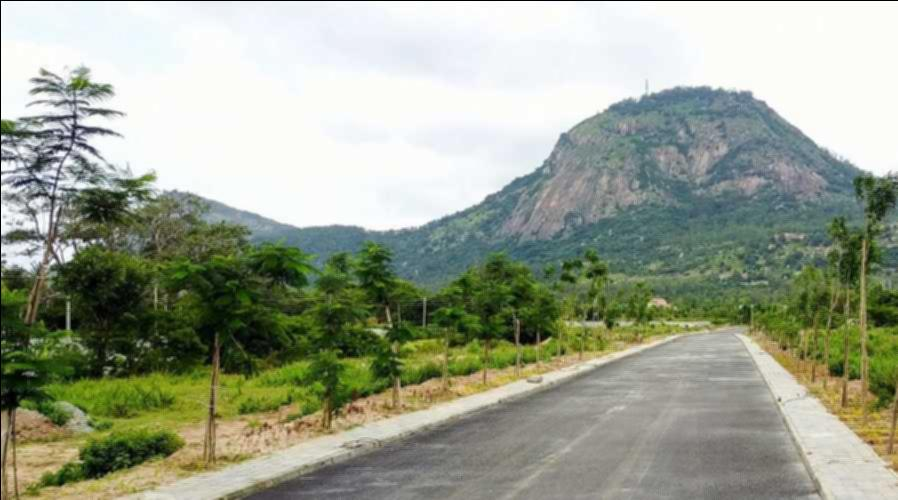
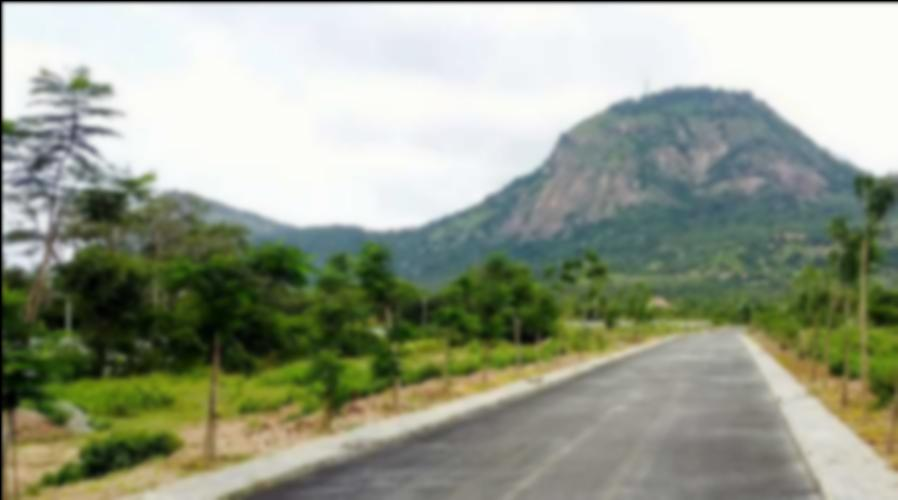
Blurring task successfull

diff --git a/Image_Processing/Task_1/Blur/blur.py b/Image_Processing/Task_1/Blur/blur.py
@@ -1,28 +1,43 @@
 # importing necessary libraries
 import numpy as np
 from PIL import Image
-import matplotlib.pyplot as plt
-intensity =5
 
-'''The approach used here is that for every pixel, change the pixel value of all three channels by their average '''
+#defines the intensity of blur required to be achieved
+level =10
+
+'''The approach used here is that for every pixel, change the pixel value of each channel to the average of pixel values of all its neigbourhood points '''
+
 # PIL is used to open the image and then it is converted into a numpy array
-image = np.array(Image.open('hills.jpg').convert('RGB'))
-blurred_image=np.empty(image.shape)
+image = np.array(Image.open('hills.jpg'))
 
-# The first element of image.shape is the no. of rows and the 2nd element is the no. of columns in the array
-for r in range(0, image.shape[0]):
-    for c in range(0, image.shape[1]):
-        #stores all the points in the neighbourhood of (r,c)
-        nbd=image[r-1:r+2,c-1:c+2]
-        
-        #acg_p stores the average pixel value in (r,g,b) format
-        avg_p=np.mean(nbd,axis=(0,1),dtype=np.uint16)
-        blurred_image[r,c]=tuple(avg_p)
-        
-blurred_image=256-blurred_image
+def blur(image):
+    '''Blurs the image by one level'''
+    blurred_image=np.empty(image.shape)
+
+    # The first element of image.shape is the no. of rows and the 2nd element is the no. of columns in the array
+    for r in range(0, image.shape[0]):
+        for c in range(0, image.shape[1]):
+            
+            #stores all the points in the neighbourhood of (r,c) pixel
+            nbd=image[r-1:r+2,c-1:c+2]
+
+            #avg_p stores the average pixel value in (r,g,b) format
+            avg_p=np.mean(nbd,axis=(0,1),dtype=np.uint16)
+            
+            #the pixel of (r,c) pixel is set to the average_p
+            blurred_image[r,c]=avg_p
+
+    
+    # The numpy array is converted back to image which is then saved
+    return(blurred_image)
+
+#call the functions 'level' times to achieve blurring of that many levels
+for i in range(0,level):
+    image=blur(image)
+
+#Converts the image to -ve as it is going to be again inverted in the next step
+image=256-image
+
 # The numpy array is converted back to image which is then saved
-Image.fromarray((blurred_image * 255).astype(np.uint8)).save('blurred_hills.jpg')
-
-
-
-        
+Image.fromarray((image * 255).astype(np.uint8)).save('blurred_hills.jpg')
+#asstype is used here as the program was giving an error which may be due to PIL not accepting RGB values in the float (0,1) format :)        
